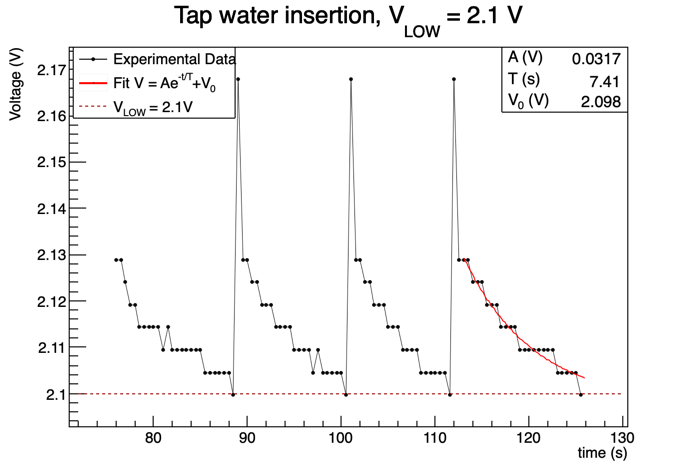
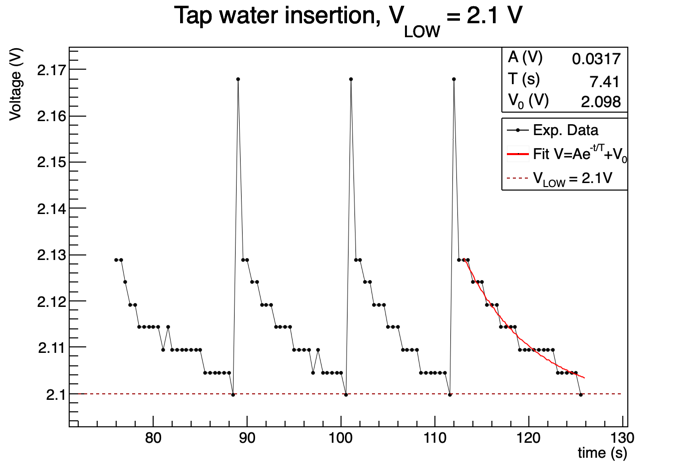
quickplot amd other not so important things

Changed region(s): [[0.0903, 0.1179, 0.361, 0.2653], [0.7221, 0.2358, 0.9026, 0.4126]]

diff --git a/Graph/Allplots.C b/Graph/Allplots.C
@@ -1,0 +1,85 @@
+void Allplots(){
+    TFile *f = new TFile("graph.root", "read");
+
+    TCanvas *c1 = new TCanvas("c1", "c1");
+
+    //--------------------------------------------------------------------------
+
+    // Retrieve the graph from the root file
+    TGraph *g1 = (TGraph *)f->Get("Graph;1");
+
+    // Graph cosmetic
+    g1->SetTitle("Salt water Insertion, V_{HIGH} = 3.1 V;time (s);Voltage (V)");
+    g1->SetMarkerStyle(8);
+    g1->SetMarkerColor(kBlack);
+    g1->SetMarkerSize(.4);
+    g1->SetLineStyle(1);
+    g1->SetLineColor(kBlack);
+    g1->SetLineWidth(1.);
+
+    TLine *line1 = new TLine(0.,3.1,80.,3.1);
+    line1->SetLineColor(kBlack);
+    line1->SetLineStyle(2);
+    //--------------------------------------------------------------------------
+    // Retrieve the graph from the root file
+    TGraph *g3 = (TGraph *)f->Get("Graph;3");
+
+    // Graph cosmetic
+    g3->SetTitle("Tap water insertion, V_{LOW} = 2.1 V; time (s); Voltage (V)");
+    g3->SetMarkerStyle(8);
+    g3->SetMarkerColor(kBlack);
+    g3->SetMarkerSize(.4);
+    g3->SetLineStyle(1);
+    g3->SetLineColor(kBlack);
+    g3->SetLineWidth(1.);
+    //--------------------------------------------------------------------------
+    // Retrieve the graph from the root file
+    TGraph *g4 = (TGraph *)f->Get("Graph;4");
+
+    // Graph cosmetic
+    g4->SetTitle("Salt water insertion, V_{HIGH} = 3 V;time (s);Voltage (V)");
+    g4->SetMarkerStyle(8);
+    g4->SetMarkerColor(kRed);
+    g4->SetMarkerSize(.4);
+    g4->SetLineStyle(1);
+    g4->SetLineColor(kRed);
+    g4->SetLineWidth(1.);
+
+    TLine *line4 = new TLine(0.,3.,80.,3.);
+    line4->SetLineColor(kRed);
+    line4->SetLineStyle(2);
+    //--------------------------------------------------------------------------
+     // Retrieve the graph from the root file
+    TGraph *g5 = (TGraph *)f->Get("Graph;5");
+
+    // Graph cosmetic
+    g5->SetTitle("Salt water insertion, V_{HIGH} = 2.86 V;time (s);Voltage (V)");
+    g5->SetMarkerStyle(8);
+    g5->SetMarkerColor(kBlue);
+    g5->SetMarkerSize(.4);
+    g5->SetLineStyle(1);
+    g5->SetLineColor(kBlue);
+    g5->SetLineWidth(1.);
+
+    TLine *line5 = new TLine(0.,2.86,80.,2.86);
+    line5->SetLineColor(kBlue);
+    line5->SetLineStyle(2);
+    //--------------------------------------------------------------------------
+    TMultiGraph *mg1 = new TMultiGraph("mg1","Salt water insertion;time (s); Voltage (V)");
+    mg1->Add(g1);
+    //mg1->Add(g3);
+    mg1->Add(g4);
+    mg1->Add(g5);
+
+    TLegend *leg = new TLegend(0.6,0.65,0.85,0.8);
+    leg->AddEntry(g1, "V_{HIGH} = 3.1V");
+    leg->AddEntry(g4, "V_{HIGH} = 3V");
+    leg->AddEntry(g5, "V_{HIGH} = 2.86V");
+
+    mg1->Draw("apl");
+    line1->Draw("SAME");
+    line4->Draw("SAME");
+    line5->Draw("SAME");
+    leg->Draw("Same");
+    c1->Print("AllPlots/Insert_salt.png");
+}

diff --git a/Graph/Analysis.C b/Graph/Analysis.C
@@ -56,6 +56,7 @@ void Analysis()
     line1->Draw("SAME");
     leg1->Draw("SAME");
     c1->Print("FinalPlots/Insert_salt_from_3_2V.png");
+    c1->Print("FinalPlots/Insert_salt_from_3_2V.pdf");
 
     //----------------------------------------------------------
 
@@ -81,6 +82,7 @@ void Analysis()
     g2->Draw();
     leg2->Draw("SAME");
     c2->Print("FinalPlots/Insert_tap_1.png");
+    c2->Print("FinalPlots/Insert_tap_1.pdf");
 
     //----------------------------------------------------------
     // Insert Tap 2
@@ -111,9 +113,9 @@ void Analysis()
     line3->SetLineStyle(2);
 
     // Legend
-    TLegend *leg3 = new TLegend(0.105,0.75,0.337,0.9);
-    leg3->AddEntry(g3, "Experimental Data");
-    leg3->AddEntry(f_exp3, "Fit V = Ae^{-t/T}+V_{0}");
+    TLegend *leg3 = new TLegend(0.720,0.6,0.9,0.75);
+    leg3->AddEntry(g3, "Exp. Data");
+    leg3->AddEntry(f_exp3, "Fit V=Ae^{-t/T}+V_{0}");
     leg3->AddEntry(line3, "V_{LOW} = 2.1V", "l");
 
     // Draw and save
@@ -121,6 +123,7 @@ void Analysis()
     line3->Draw("SAME");
     leg3->Draw("SAME");
     c3->Print("FinalPlots/Insert_tap_2.png");
+    c3->Print("FinalPlots/Insert_tap_2.pdf");
     //----------------------------------------------------------
 
     // Insert Salt 3V
@@ -162,6 +165,7 @@ void Analysis()
     line4->Draw("SAME");
     leg4->Draw("SAME");
     c4->Print("FinalPlots/Insert_salt_3V.png");
+    c4->Print("FinalPlots/Insert_salt_3V.pdf");
     //----------------------------------------------------------
     // Insert Salt 2.86V
     TCanvas *c5 = new TCanvas("c5", "c5");
@@ -192,6 +196,7 @@ void Analysis()
     line5->Draw("SAME");
     leg5->Draw("SAME");
     c5->Print("FinalPlots/Insert_salt_2_86V.png");
+    c5->Print("FinalPlots/Insert_salt_2_86V.pdf");
     //-----------------------------------------------------------
 
 }
